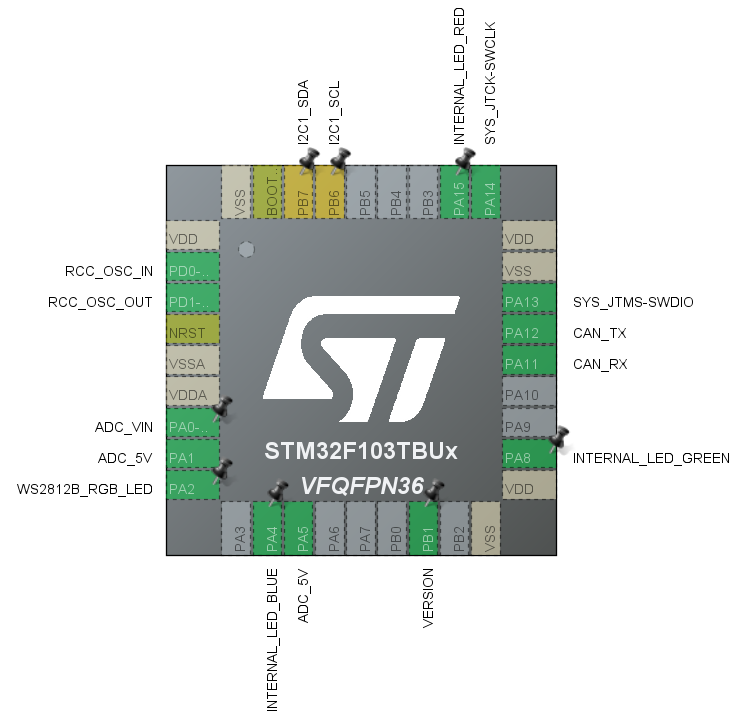
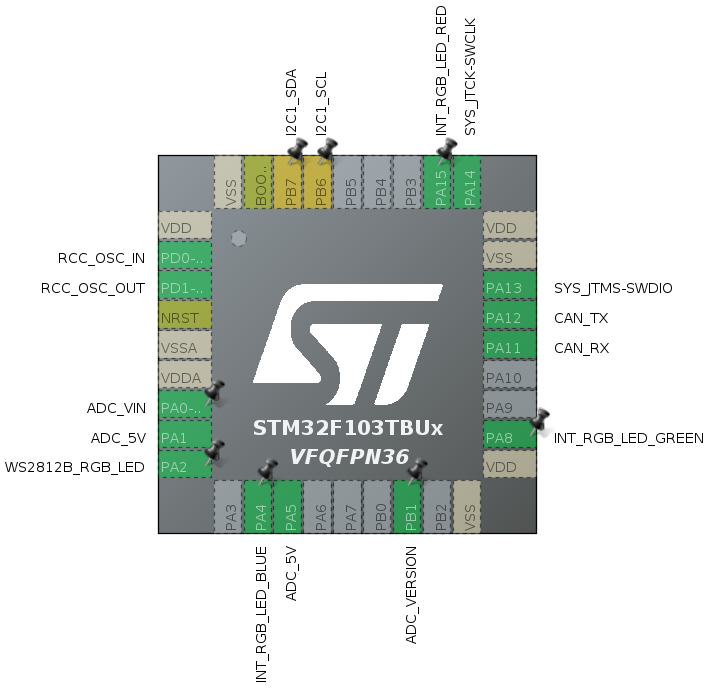
regenerate project, update ADC, RGB LED names and add more info to readme

diff --git a/Core/Src/main.c b/Core/Src/main.c
@@ -185,7 +185,7 @@ static void MX_ADC1_Init(void)
   hadc1.Init.DiscontinuousConvMode = DISABLE;
   hadc1.Init.ExternalTrigConv = ADC_SOFTWARE_START;
   hadc1.Init.DataAlign = ADC_DATAALIGN_RIGHT;
-  hadc1.Init.NbrOfConversion = 3;
+  hadc1.Init.NbrOfConversion = 5;
   if (HAL_ADC_Init(&hadc1) != HAL_OK)
   {
     Error_Handler();
@@ -214,6 +214,24 @@ static void MX_ADC1_Init(void)
   */
   sConfig.Channel = ADC_CHANNEL_TEMPSENSOR;
   sConfig.Rank = ADC_REGULAR_RANK_3;
+  if (HAL_ADC_ConfigChannel(&hadc1, &sConfig) != HAL_OK)
+  {
+    Error_Handler();
+  }
+
+  /** Configure Regular Channel
+  */
+  sConfig.Channel = ADC_CHANNEL_0;
+  sConfig.Rank = ADC_REGULAR_RANK_4;
+  if (HAL_ADC_ConfigChannel(&hadc1, &sConfig) != HAL_OK)
+  {
+    Error_Handler();
+  }
+
+  /** Configure Regular Channel
+  */
+  sConfig.Channel = ADC_CHANNEL_9;
+  sConfig.Rank = ADC_REGULAR_RANK_5;
   if (HAL_ADC_ConfigChannel(&hadc1, &sConfig) != HAL_OK)
   {
     Error_Handler();
@@ -348,16 +366,23 @@ static void MX_GPIO_Init(void)
   /* GPIO Ports Clock Enable */
   __HAL_RCC_GPIOD_CLK_ENABLE();
   __HAL_RCC_GPIOA_CLK_ENABLE();
+  __HAL_RCC_GPIOB_CLK_ENABLE();
 
   /*Configure GPIO pin Output Level */
-  HAL_GPIO_WritePin(INTERNAL_LED_GPIO_Port, INTERNAL_LED_Pin, GPIO_PIN_RESET);
+  HAL_GPIO_WritePin(GPIOA, INT_RGB_LED_BLUE_Pin|INT_RGB_LED_GREEN_Pin|INT_RGB_LED_RED_Pin, GPIO_PIN_RESET);
 
-  /*Configure GPIO pin : INTERNAL_LED_Pin */
-  GPIO_InitStruct.Pin = INTERNAL_LED_Pin;
+  /*Configure GPIO pins : INT_RGB_LED_BLUE_Pin INT_RGB_LED_GREEN_Pin INT_RGB_LED_RED_Pin */
+  GPIO_InitStruct.Pin = INT_RGB_LED_BLUE_Pin|INT_RGB_LED_GREEN_Pin|INT_RGB_LED_RED_Pin;
   GPIO_InitStruct.Mode = GPIO_MODE_OUTPUT_PP;
   GPIO_InitStruct.Pull = GPIO_NOPULL;
   GPIO_InitStruct.Speed = GPIO_SPEED_FREQ_LOW;
-  HAL_GPIO_Init(INTERNAL_LED_GPIO_Port, &GPIO_InitStruct);
+  HAL_GPIO_Init(GPIOA, &GPIO_InitStruct);
+
+  /*Configure GPIO pins : PB6 PB7 */
+  GPIO_InitStruct.Pin = GPIO_PIN_6|GPIO_PIN_7;
+  GPIO_InitStruct.Mode = GPIO_MODE_AF_OD;
+  GPIO_InitStruct.Speed = GPIO_SPEED_FREQ_HIGH;
+  HAL_GPIO_Init(GPIOB, &GPIO_InitStruct);
 
 }
 

diff --git a/Core/Src/stm32f1xx_hal_msp.c b/Core/Src/stm32f1xx_hal_msp.c
@@ -102,13 +102,20 @@ void HAL_ADC_MspInit(ADC_HandleTypeDef* hadc)
     __HAL_RCC_ADC1_CLK_ENABLE();
 
     __HAL_RCC_GPIOA_CLK_ENABLE();
+    __HAL_RCC_GPIOB_CLK_ENABLE();
     /**ADC1 GPIO Configuration
+    PA0-WKUP     ------> ADC1_IN0
     PA1     ------> ADC1_IN1
     PA5     ------> ADC1_IN5
+    PB1     ------> ADC1_IN9
     */
-    GPIO_InitStruct.Pin = ADC_VIN_Pin|ADC_5V_Pin;
+    GPIO_InitStruct.Pin = ADC_VIN_Pin|ADC_5V_Pin|ADC_5VA5_Pin;
     GPIO_InitStruct.Mode = GPIO_MODE_ANALOG;
     HAL_GPIO_Init(GPIOA, &GPIO_InitStruct);
+
+    GPIO_InitStruct.Pin = ADC_VERSION_Pin;
+    GPIO_InitStruct.Mode = GPIO_MODE_ANALOG;
+    HAL_GPIO_Init(ADC_VERSION_GPIO_Port, &GPIO_InitStruct);
 
   /* USER CODE BEGIN ADC1_MspInit 1 */
 
@@ -134,10 +141,14 @@ void HAL_ADC_MspDeInit(ADC_HandleTypeDef* hadc)
     __HAL_RCC_ADC1_CLK_DISABLE();
 
     /**ADC1 GPIO Configuration
+    PA0-WKUP     ------> ADC1_IN0
     PA1     ------> ADC1_IN1
     PA5     ------> ADC1_IN5
+    PB1     ------> ADC1_IN9
     */
-    HAL_GPIO_DeInit(GPIOA, ADC_VIN_Pin|ADC_5V_Pin);
+    HAL_GPIO_DeInit(GPIOA, ADC_VIN_Pin|ADC_5V_Pin|ADC_5VA5_Pin);
+
+    HAL_GPIO_DeInit(ADC_VERSION_GPIO_Port, ADC_VERSION_Pin);
 
   /* USER CODE BEGIN ADC1_MspDeInit 1 */
 

diff --git a/Core/Inc/main.h b/Core/Inc/main.h
@@ -60,14 +60,22 @@ void Error_Handler(void);
 /* USER CODE END EFP */
 
 /* Private defines -----------------------------------------------------------*/
-#define ADC_VIN_Pin GPIO_PIN_1
+#define ADC_VIN_Pin GPIO_PIN_0
 #define ADC_VIN_GPIO_Port GPIOA
+#define ADC_5V_Pin GPIO_PIN_1
+#define ADC_5V_GPIO_Port GPIOA
 #define WS2812B_RGB_LED_Pin GPIO_PIN_2
 #define WS2812B_RGB_LED_GPIO_Port GPIOA
-#define ADC_5V_Pin GPIO_PIN_5
-#define ADC_5V_GPIO_Port GPIOA
-#define INTERNAL_LED_Pin GPIO_PIN_8
-#define INTERNAL_LED_GPIO_Port GPIOA
+#define INT_RGB_LED_BLUE_Pin GPIO_PIN_4
+#define INT_RGB_LED_BLUE_GPIO_Port GPIOA
+#define ADC_5VA5_Pin GPIO_PIN_5
+#define ADC_5VA5_GPIO_Port GPIOA
+#define ADC_VERSION_Pin GPIO_PIN_1
+#define ADC_VERSION_GPIO_Port GPIOB
+#define INT_RGB_LED_GREEN_Pin GPIO_PIN_8
+#define INT_RGB_LED_GREEN_GPIO_Port GPIOA
+#define INT_RGB_LED_RED_Pin GPIO_PIN_15
+#define INT_RGB_LED_RED_GPIO_Port GPIOA
 /* USER CODE BEGIN Private defines */
 
 /* USER CODE END Private defines */

diff --git a/README.md b/README.md
@@ -1,12 +1,18 @@
 # RaccoonLab UAV LIGHTS v2 node
 
-This is a repository for RaccoonLab lights v2 node.
+This is a repository for [RaccoonLab UAV Lights v2](https://docs.raccoonlab.co/guide/ui_leds/) node.
+
+| View | Top view | Bot view |
+| ---- | --- | ------ |
+| <img src="https://docs.raccoonlab.co/assets/img/t-view.42a0bfba.png" alt="drawing" width="225"> | <img src="https://docs.raccoonlab.co/assets/img/t-view-top.39aeaa81.png" alt="drawing" width="225"> | <img src="https://docs.raccoonlab.co/assets/img/t-view-bottom.e9a28e7d.png" alt="drawing" width="225">|
 
 The core of this repository is the .ioc file that defines the stm32 peripherals with respect to what a real device has.
 
 The peripheral configuration is shown below:
 
-<img src="Assets/stm32cubemx.png" alt="drawing">
+| | |
+|-|-|
+| <img src="Assets/stm32cubemx.png" alt="drawing"> | <img src="Assets/adc1_settings.png" alt="drawing"> |
 
 Additionally, the reposity has a source code generated with STM32CubeMX v6.6.0 using STM32Cube FW_G0 V1.6.1 for STM32CubeIDE usage.
 
